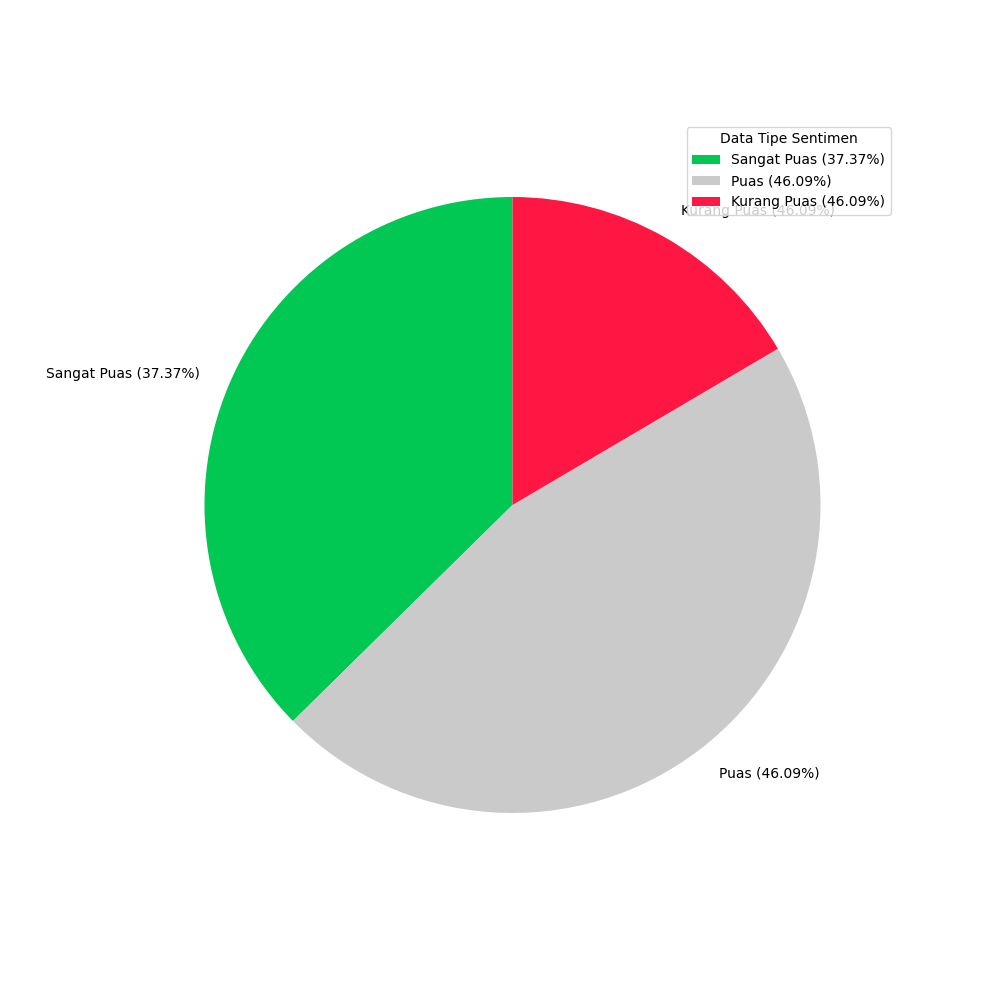
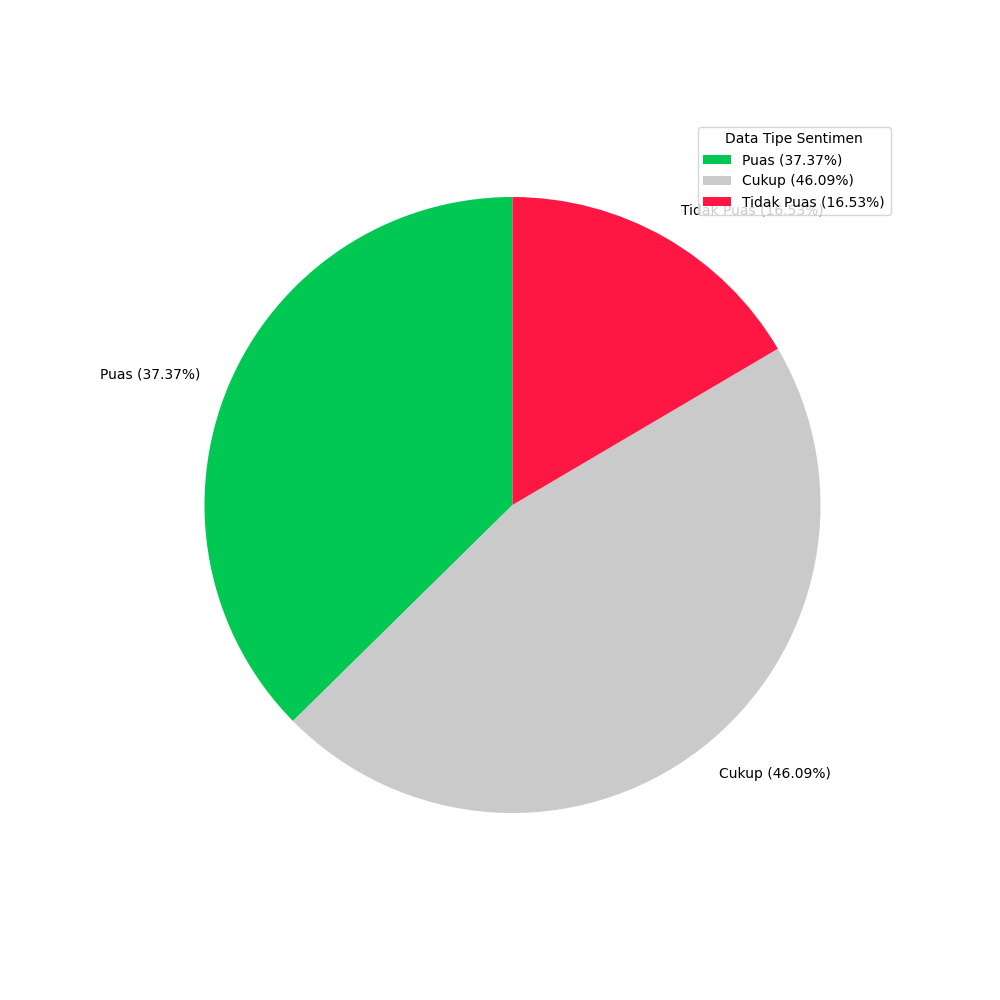
update

Changed region(s): [[0.682, 0.124, 0.868, 0.217], [0.713, 0.744, 0.837, 0.775], [0.062, 0.372, 0.155, 0.403]]

diff --git a/website/static/js/ajax.js b/website/static/js/ajax.js
@@ -103,60 +103,35 @@ var table_dataPreprocessing = $('#table_dataPreprocessing').DataTable({
             data: null,
             className: 'text-left',
             "render": function (data, type, full, meta) {
-                return data.clean_answer_1 +`<br />
-                <div class="d-flex justify-content-center">
-                    <button type="button" value="modalTweetAsli" class="btn btn-primary btn-sm mt-2">
-                        <i class="bx bx-search"></i> Detail Teks
-                    </button>
-                </div>`
+                return data.clean_answer_1
             },
         },
         {
             data: null,
             className: 'text-left',
             "render": function (data, type, full, meta) {
-                return data.clean_answer_2 +`<br />
-                <div class="d-flex justify-content-center">
-                    <button type="button" value="modalTweetAsli" class="btn btn-primary btn-sm mt-2">
-                        <i class="bx bx-search"></i> Detail Teks
-                    </button>
-                </div>`
+                return data.clean_answer_2
             },
         },
         {
             data: null,
             className: 'text-left',
             "render": function (data, type, full, meta) {
-                return data.clean_answer_3 +`<br />
-                <div class="d-flex justify-content-center">
-                    <button type="button" value="modalTweetAsli" class="btn btn-primary btn-sm mt-2">
-                        <i class="bx bx-search"></i> Detail Teks
-                    </button>
-                </div>`
+                return data.clean_answer_3
             },
         },
         {
             data: null,
             className: 'text-left',
             "render": function (data, type, full, meta) {
-                return data.clean_answer_4 +`<br />
-                <div class="d-flex justify-content-center">
-                    <button type="button" value="modalTweetAsli" class="btn btn-primary btn-sm mt-2">
-                        <i class="bx bx-search"></i> Detail Teks
-                    </button>
-                </div>`
+                return data.clean_answer_4
             },
         },
         {
             data: null,
             className: 'text-left',
             "render": function (data, type, full, meta) {
-                return data.clean_answer_5 +`<br />
-                <div class="d-flex justify-content-center">
-                    <button type="button" value="modalTweetAsli" class="btn btn-primary btn-sm mt-2">
-                        <i class="bx bx-search"></i> Detail Teks
-                    </button>
-                </div>`
+                return data.clean_answer_5
             },
         },
         { 
@@ -388,7 +363,7 @@ var table_dataWithLabel = $('#table_dataWithLabel').DataTable({
                 return data.clean_text +`<br />
                 <div class="d-flex justify-content-center">
                     <button type="button" value="modalTweetAsli" class="btn btn-primary btn-sm mt-2">
-                        <i class="bx bx-search"></i> Lihat Tweet Asli
+                        <i class="bx bx-search"></i> Lihat Teks Asli
                     </button>
                 </div>
                 `
@@ -533,12 +508,7 @@ var table_dataTrain = $('#table_dataTrainQ1').DataTable({
             data: null,
             className: 'text-left',
             "render": function (data, type, full, meta) {
-                return data.clean_text +`<br />
-                <div class="d-flex justify-content-center">
-                    <button type="button" value="modalTweetAsli" class="btn btn-primary btn-sm float-right mt-2">
-                        <i class="fa fa-search"></i> Lihat Tweet Asli
-                    </button>
-                </div>`
+                return data.clean_text
             },
         },
         { 
@@ -597,12 +567,7 @@ var table_dataTrain = $('#table_dataTrainQ2').DataTable({
             data: null,
             className: 'text-left',
             "render": function (data, type, full, meta) {
-                return data.clean_text +`<br />
-                <div class="d-flex justify-content-center">
-                    <button type="button" value="modalTweetAsli" class="btn btn-primary btn-sm float-right mt-2">
-                        <i class="fa fa-search"></i> Lihat Tweet Asli
-                    </button>
-                </div>`
+                return data.clean_text
             },
         },
         { 
@@ -662,12 +627,7 @@ var table_dataTrain = $('#table_dataTrainQ3').DataTable({
             data: null,
             className: 'text-left',
             "render": function (data, type, full, meta) {
-                return data.clean_text +`<br />
-                <div class="d-flex justify-content-center">
-                    <button type="button" value="modalTweetAsli" class="btn btn-primary btn-sm float-right mt-2">
-                        <i class="fa fa-search"></i> Lihat Tweet Asli
-                    </button>
-                </div>`
+                return data.clean_text
             },
         },
         { 
@@ -727,12 +687,7 @@ var table_dataTrain = $('#table_dataTrainQ4').DataTable({
             data: null,
             className: 'text-left',
             "render": function (data, type, full, meta) {
-                return data.clean_text +`<br />
-                <div class="d-flex justify-content-center">
-                    <button type="button" value="modalTweetAsli" class="btn btn-primary btn-sm float-right mt-2">
-                        <i class="fa fa-search"></i> Lihat Tweet Asli
-                    </button>
-                </div>`
+                return data.clean_text
             },
         },
         { 
@@ -792,12 +747,7 @@ var table_dataTrain = $('#table_dataTrainQ5').DataTable({
             data: null,
             className: 'text-left',
             "render": function (data, type, full, meta) {
-                return data.clean_text +`<br />
-                <div class="d-flex justify-content-center">
-                    <button type="button" value="modalTweetAsli" class="btn btn-primary btn-sm float-right mt-2">
-                        <i class="fa fa-search"></i> Lihat Tweet Asli
-                    </button>
-                </div>`
+                return data.clean_text
             },
         },
         { 
@@ -858,12 +808,7 @@ var table_dataTest = $('#table_dataTestQ1').DataTable({
             data: null,
             className: 'text-left',
             "render": function (data, type, full, meta) {
-                return data.clean_text +`<br />
-                <div class="d-flex justify-content-center">
-                    <button type="button" value="modalTweetAsli" class="btn btn-primary btn-sm float-right mt-2">
-                        <i class="fa fa-search"></i> Lihat Tweet Asli
-                    </button>
-                </div>`
+                return data.clean_text
             },
         },
         { 
@@ -923,12 +868,7 @@ var table_dataTest = $('#table_dataTestQ2').DataTable({
             data: null,
             className: 'text-left',
             "render": function (data, type, full, meta) {
-                return data.clean_text +`<br />
-                <div class="d-flex justify-content-center">
-                    <button type="button" value="modalTweetAsli" class="btn btn-primary btn-sm float-right mt-2">
-                        <i class="fa fa-search"></i> Lihat Tweet Asli
-                    </button>
-                </div>`
+                return data.clean_text
             },
         },
         { 
@@ -988,12 +928,7 @@ var table_dataTest = $('#table_dataTestQ3').DataTable({
             data: null,
             className: 'text-left',
             "render": function (data, type, full, meta) {
-                return data.clean_text +`<br />
-                <div class="d-flex justify-content-center">
-                    <button type="button" value="modalTweetAsli" class="btn btn-primary btn-sm float-right mt-2">
-                        <i class="fa fa-search"></i> Lihat Tweet Asli
-                    </button>
-                </div>`
+                return data.clean_text
             },
         },
         { 
@@ -1053,12 +988,7 @@ var table_dataTest = $('#table_dataTestQ4').DataTable({
             data: null,
             className: 'text-left',
             "render": function (data, type, full, meta) {
-                return data.clean_text +`<br />
-                <div class="d-flex justify-content-center">
-                    <button type="button" value="modalTweetAsli" class="btn btn-primary btn-sm float-right mt-2">
-                        <i class="fa fa-search"></i> Lihat Tweet Asli
-                    </button>
-                </div>`
+                return data.clean_text
             },
         },
         { 
@@ -1118,12 +1048,7 @@ var table_dataTest = $('#table_dataTestQ5').DataTable({
             data: null,
             className: 'text-left',
             "render": function (data, type, full, meta) {
-                return data.clean_text +`<br />
-                <div class="d-flex justify-content-center">
-                    <button type="button" value="modalTweetAsli" class="btn btn-primary btn-sm float-right mt-2">
-                        <i class="fa fa-search"></i> Lihat Tweet Asli
-                    </button>
-                </div>`
+                return data.clean_text
             },
         },
         { 

diff --git a/website/templates/visualization.html b/website/templates/visualization.html
@@ -63,7 +63,7 @@
             <div class="row row-cols-3 justify-content-center">
               {% for i in range(0, 5) %}
               <div class="col">
-                <h5 class="text-center">Pie Chart sentimen pada data Q{{ loop.index }}. <br />{{ data.jumlah_sp[i] }} sentimen Sangat Puas ({{ data.persentase_sp[i] }} %) <br /> {{ data.jumlah_p[i] }} sentimen Puas ({{ data.persentase_p[i] }} %) <br /> {{ data.jumlah_kp[i] }} sentimen Kurang Puas ({{ data.persentase_kp[i] }} %)</h5>
+                <h5 class="text-center">Pie Chart sentimen pada data Q{{ loop.index }}. <br />{{ data.jumlah_p[i] }} sentimen Puas ({{ data.persentase_p[i] }} %) <br /> {{ data.jumlah_c[i] }} sentimen Cukup ({{ data.persentase_c[i] }} %) <br /> {{ data.jumlah_tp[i] }} sentimen Tidak Puas ({{ data.persentase_tp[i] }} %)</h5>
                 <div>
                   <img src="../static/visualisasi/pie_sentimen_{{ loop.index }}.png" alt="piechart sentimen" class="img-fluid mx-auto d-block">
                 </div>

diff --git a/website/templates/splitting.html b/website/templates/splitting.html
@@ -407,14 +407,14 @@
       <div class="modal-dialog modal-dialog-centered" role="document">
         <div class="modal-content">
           <div class="modal-header">
-            <h5 class="modal-title">Detail Tweet</h5>
+            <h5 class="modal-title">Detail Teks</h5>
             <button type="button" class="btn-close" data-bs-dismiss="modal" aria-label="Close"></button>
           </div>
           <div class="modal-body mx-3">
-            <h6 class="mb-2">Tweet Asli:</h6>
+            <h6 class="mb-2">Teks Asli:</h6>
             <p id="tweetAsli"></p>
             <hr />
-            <h6 class="mb-2">Tweet Bersih:</h6>
+            <h6 class="mb-2">Teks Bersih:</h6>
             <p id="tweetBersih"></p>
           </div>
         </div>

diff --git a/website/templates/classification.html b/website/templates/classification.html
@@ -143,8 +143,8 @@
                       </tr>
                       <tr>
                         <td class="align-middle border-success border">Tidak Puas</td>
+                        <td class="align-middle border-success border">Cukup</td>
                         <td class="align-middle border-success border">Puas</td>
-                        <td class="align-middle border-success border">Sangat Puas</td>
                       </tr>
                       <tr>
                         <td rowspan="3" class="align-middle p-0 border-success border">Data Prediksi</td>

diff --git a/website/templates/preprocessing.html b/website/templates/preprocessing.html
@@ -95,7 +95,7 @@
   </div>
 
   <!-- Modal Tweet Asli -->
-  <div class="modal fade" tabindex="-1" id="modalLihatTweetAsli">
+  <!-- <div class="modal fade" tabindex="-1" id="modalLihatTweetAsli">
     <div class="modal-dialog modal-dialog-scrollable modal-dialog-centered" role="document">
       <div class="modal-content">
         <div class="modal-header">
@@ -131,7 +131,7 @@
         </div>
       </div>
     </div>
-  </div>
+  </div> -->
 </div>
 
 {% endblock content %}

diff --git a/website/controllers/visualization.py b/website/controllers/visualization.py
@@ -14,50 +14,50 @@ import os
 class VisualizationController:
     def createVisualisasi(self):
         try:
-            list_count_sp = []
             list_count_p = []
-            list_count_kp = []
-            list_persentase_sp = []
+            list_count_c = []
+            list_count_tp = []
             list_persentase_p = []
-            list_persentase_kp = []
+            list_persentase_c = []
+            list_persentase_tp = []
 
             for num in range(1, 6):
-
-                instance_model = Models(f'SELECT COUNT(id) as jumlah FROM tbl_data_clean WHERE sentiment_{num} = "Sangat Puas"')
-                count_sp = instance_model.select()[0]['jumlah']
 
                 instance_model = Models(f'SELECT COUNT(id) as jumlah FROM tbl_data_clean WHERE sentiment_{num} = "Puas"')
                 count_p = instance_model.select()[0]['jumlah']
 
-                instance_model = Models(f'SELECT COUNT(id) as jumlah FROM tbl_data_clean WHERE sentiment_{num} = "Kurang Puas"')
-                count_kp = instance_model.select()[0]['jumlah']
+                instance_model = Models(f'SELECT COUNT(id) as jumlah FROM tbl_data_clean WHERE sentiment_{num} = "Cukup"')
+                count_c = instance_model.select()[0]['jumlah']
 
-                jumlah_data = count_sp + count_p + count_kp
-                persentase_sp = round((count_sp / jumlah_data) * 100, 2)
+                instance_model = Models(f'SELECT COUNT(id) as jumlah FROM tbl_data_clean WHERE sentiment_{num} = "Tidak Puas"')
+                count_tp = instance_model.select()[0]['jumlah']
+
+                jumlah_data = count_p + count_c + count_tp
                 persentase_p = round((count_p / jumlah_data) * 100, 2)
-                persentase_kp = round((count_kp / jumlah_data) * 100, 2)
+                persentase_c = round((count_c / jumlah_data) * 100, 2)
+                persentase_tp = round((count_tp / jumlah_data) * 100, 2)
 
-                list_count_sp.append(count_sp)
                 list_count_p.append(count_p)
-                list_count_kp.append(count_kp)
-                list_persentase_sp.append(persentase_sp)
+                list_count_c.append(count_c)
+                list_count_tp.append(count_tp)
                 list_persentase_p.append(persentase_p)
-                list_persentase_kp.append(persentase_kp)
+                list_persentase_c.append(persentase_c)
+                list_persentase_tp.append(persentase_tp)
 
-                list_countSentiment = [persentase_sp, persentase_p, persentase_kp]
+                list_countSentiment = [persentase_p, persentase_c, persentase_tp]
 
                 plt.subplots(figsize=(10, 10))
-                plt.pie(list_countSentiment, labels=['Sangat Puas ('+ str(persentase_sp) +'%)', 'Puas ('+ str(persentase_p) +'%)', 'Kurang Puas ('+ str(persentase_p) +'%)'], colors=['#00c853', '#CACACA', '#ff1744'], startangle=90)
+                plt.pie(list_countSentiment, labels=['Puas ('+ str(persentase_p) +'%)', 'Cukup ('+ str(persentase_c) +'%)', 'Tidak Puas ('+ str(persentase_tp) +'%)'], colors=['#00c853', '#CACACA', '#ff1744'], startangle=90)
                 plt.legend(title="Data Tipe Sentimen")
                 plt.savefig(f'website/static/visualisasi/pie_sentimen_{num}.png')
 
                 plt.cla()
                 plt.clf()
 
-            instance_model = Models("SELECT clean_answer_5 FROM tbl_data_clean WHERE clean_answer_5 IS NOT NULL AND sentiment_5 = 'Sangat Puas'")
+            instance_model = Models("SELECT clean_answer_5 FROM tbl_data_clean WHERE clean_answer_5 IS NOT NULL AND sentiment_5 = 'Puas'")
             data_positif = instance_model.select()
                 
-            instance_model = Models("SELECT clean_answer_5 FROM tbl_data_clean WHERE clean_answer_5 IS NOT NULL AND sentiment_5 = 'Puas'")
+            instance_model = Models("SELECT clean_answer_5 FROM tbl_data_clean WHERE clean_answer_5 IS NOT NULL AND sentiment_5 = 'Tidak Puas'")
             data_negatif = instance_model.select()
 
             string_positif = ""
@@ -102,12 +102,12 @@ class VisualizationController:
 
         data = {
             'jumlah_tweets': jumlah_data,
-            'jumlah_sp': list_count_sp,
             'jumlah_p': list_count_p,
-            'jumlah_kp': list_count_kp,
-            'persentase_sp': list_persentase_sp,
+            'jumlah_c': list_count_c,
+            'jumlah_tp': list_count_tp,
             'persentase_p': list_persentase_p,
-            'persentase_kp': list_persentase_kp,
+            'persentase_c': list_persentase_c,
+            'persentase_tp': list_persentase_tp,
             'frekuensi_pos': list(frekuensi_pos.items())[:15],
             'frekuensi_neg': list(frekuensi_neg.items())[:15],
         }
